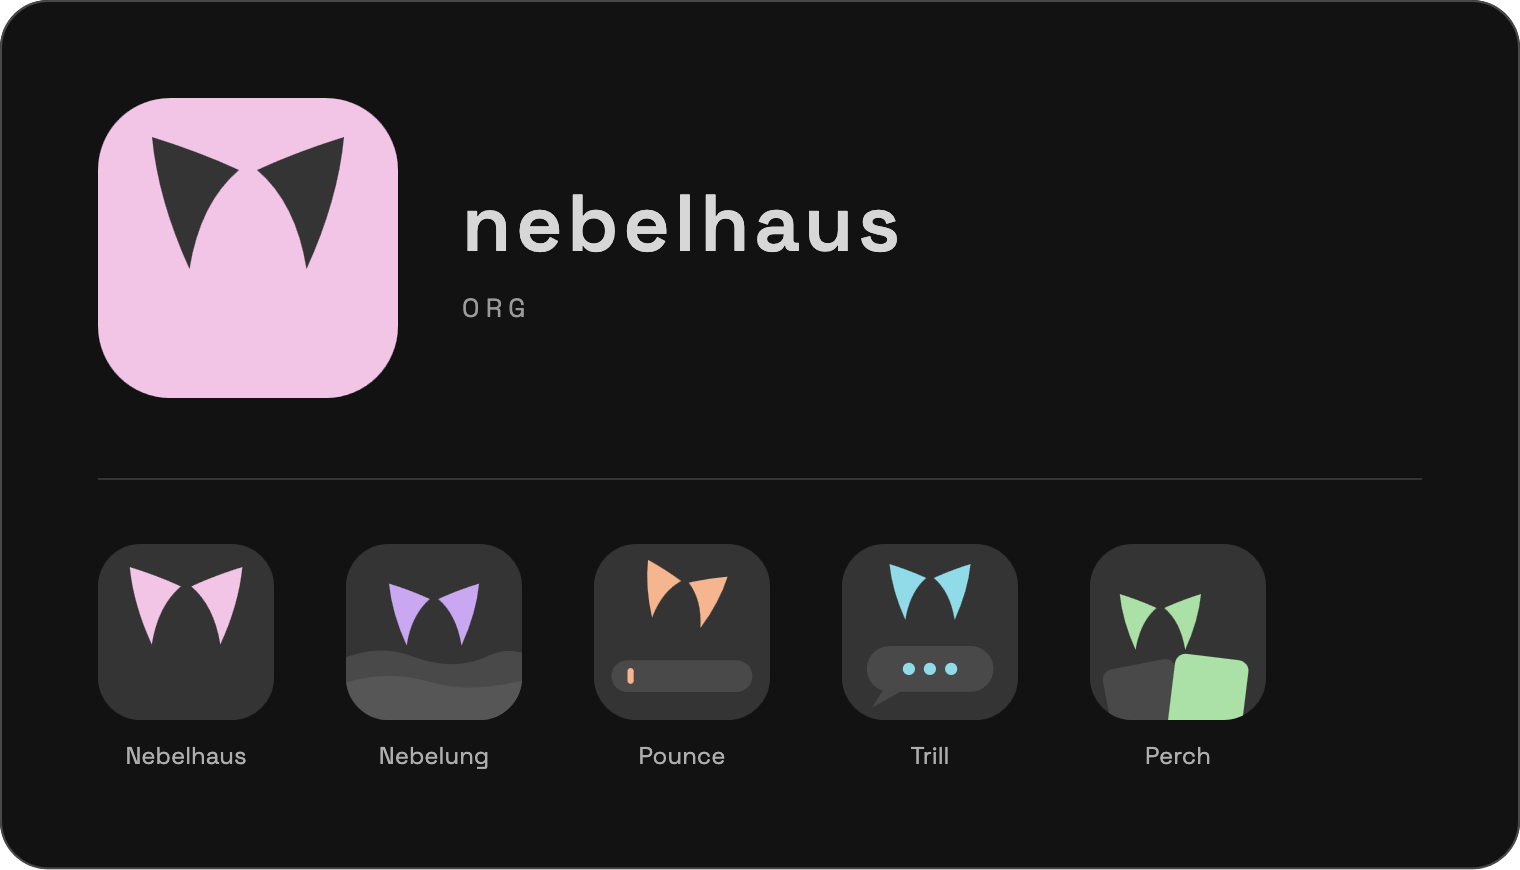
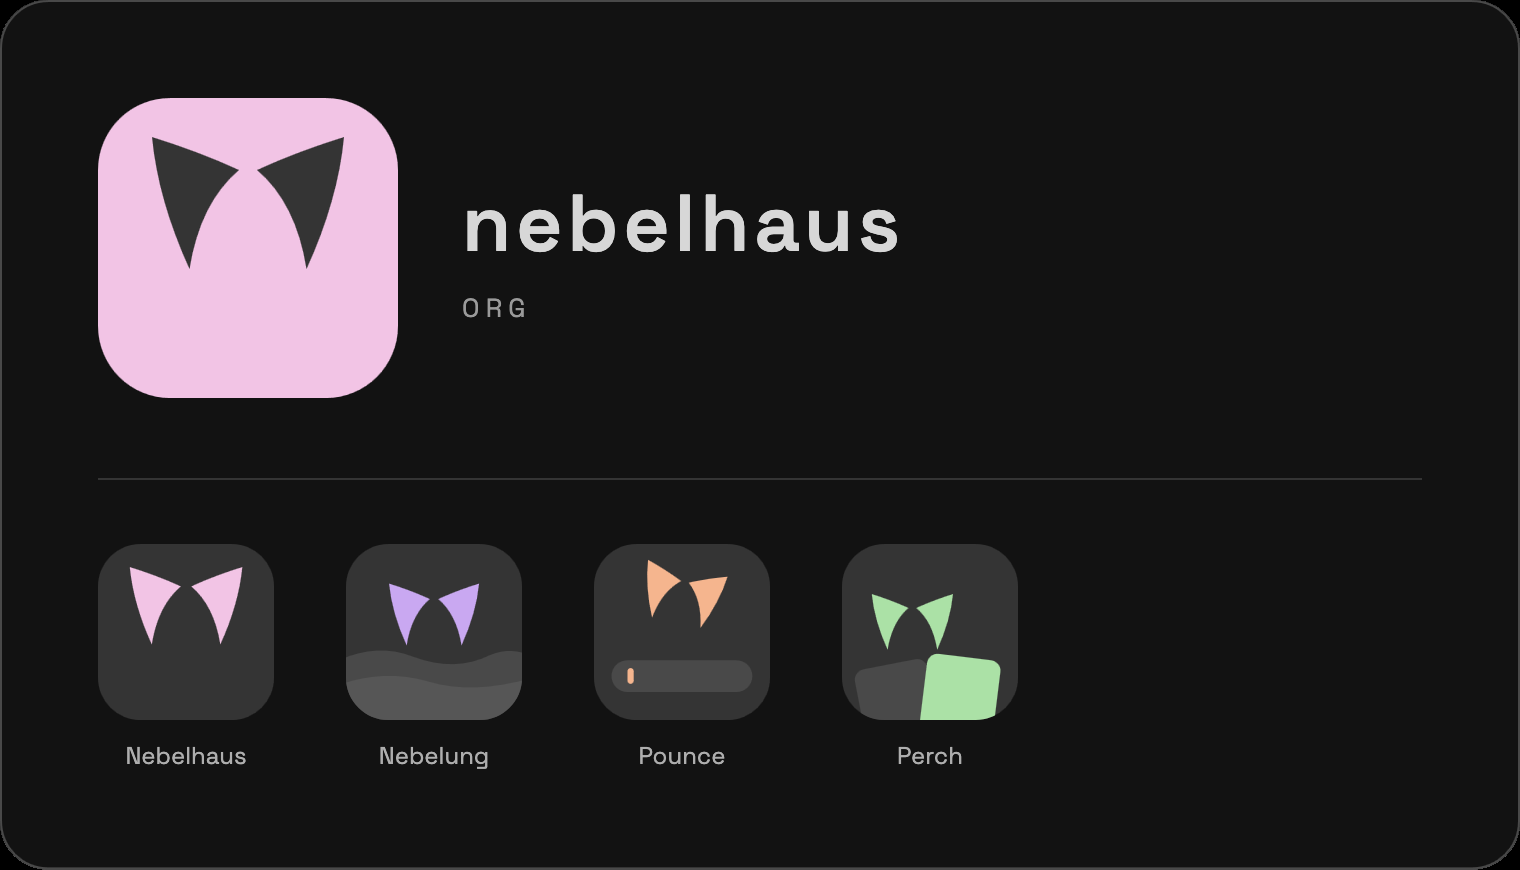
showcase: four tiles — the archived Messages client comes off the front page (#16)
github.com/nebelhaus's showcase card still presented that app as one of
five shipping tools, labelled with the name that passed to the
notification compositor on 2026-08-08. It was the last place the old app
was being sold.

Recomposited from the existing card rather than re-rendered (no design
source is checked in): the row is left-aligned to the divider, so Perch
simply moves into the vacated slot and the right end shortens. Divider,
hero, wordmark and every kept tile are untouched pixels.

assets/README.md records the left-alignment, since it is what makes
adding or removing a tool a one-slot edit.

Claude-Session: https://claude.ai/code/session_01DtkqMbo8xdT3CSDgFF8uiu

diff --git a/profile/assets/README.md b/profile/assets/README.md
@@ -10,8 +10,13 @@ URL — so keep the filename stable when you replace it.
 ## The family showcase
 
 A single 1520×870 card: the **Nebelhaus** hero mark + wordmark up top, and a row
-of app-icon tiles below — one per tool (Nebelhaus, Nebelung, Pounce, Trill,
-Perch), each carrying that tool's current squircle mark on the house grey.
+of app-icon tiles below — one per tool (Nebelhaus, Nebelung, Pounce, Perch),
+each carrying that tool's current squircle mark on the house grey.
+
+The row is **left-aligned to the divider**, not centred, so adding or removing a
+tool changes only the right end of it. It held five tiles until 2026-08-08, when
+the archived Messages client's came out — the card is public, on the org's front
+page, and it was the last place that app was still being presented as shipping.
 
 When a tool's mark changes, its tile here has to change too, or the showcase
 goes stale. To swap it, drop the freshly-rendered card in over the same

diff --git a/AGENTS.md b/AGENTS.md
@@ -20,7 +20,7 @@ downstream pins it.
 | Want to change… | Repo |
 |---|---|
 | the org profile README / the family showcase image | here ← **you are here** |
-| a tool's own README, banner or app icon | that tool's repo (`nebelhaus`, `pounce`, `trill`, `perch`, `nebelung`) |
+| a tool's own README, banner or app icon | that tool's repo (`nebelhaus`, `pounce`, `perch`, `nebelung`, `holt`) |
 | nebelhaus.com — the site, its logos, per-tool OG images, accents | `workshop` (`web/`) |
 | anything about how the family is built (`bench`, the routing table) | `workshop` |
 
